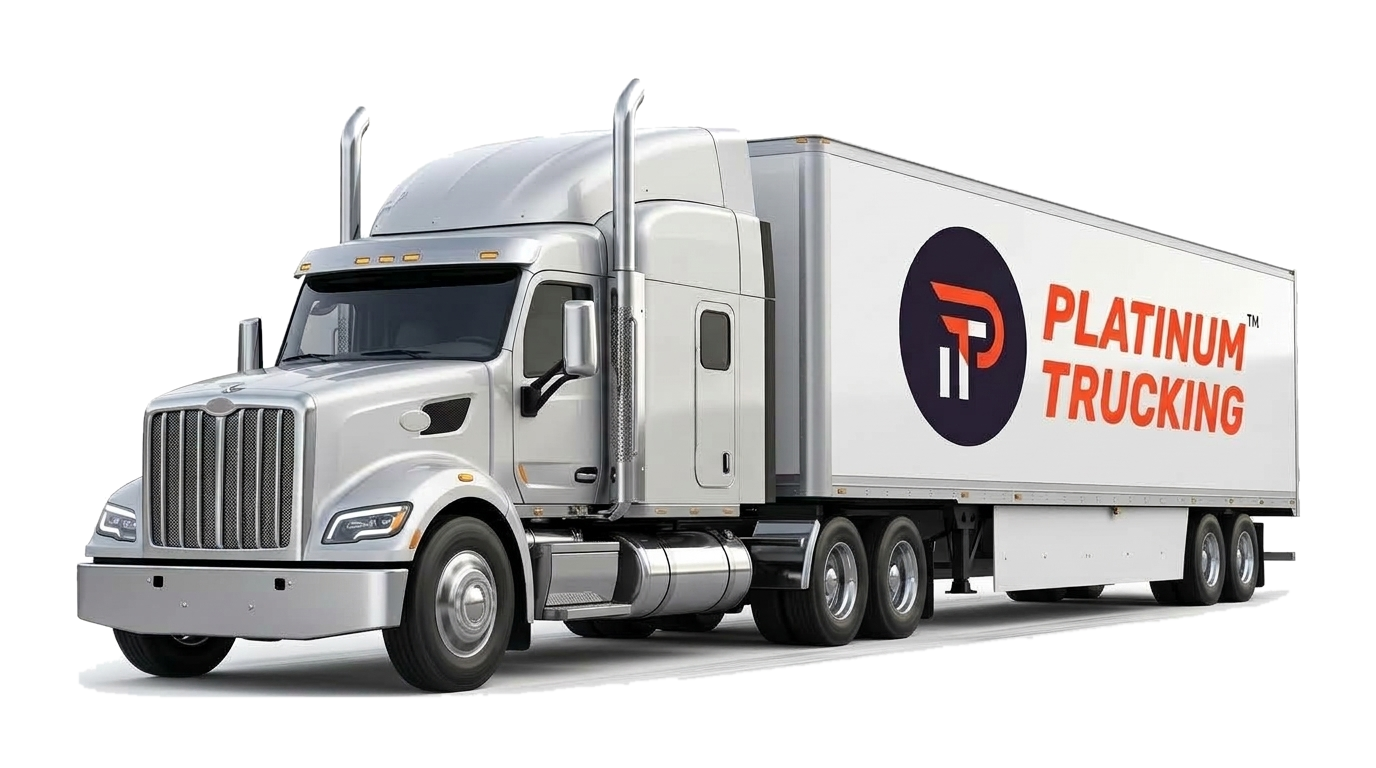
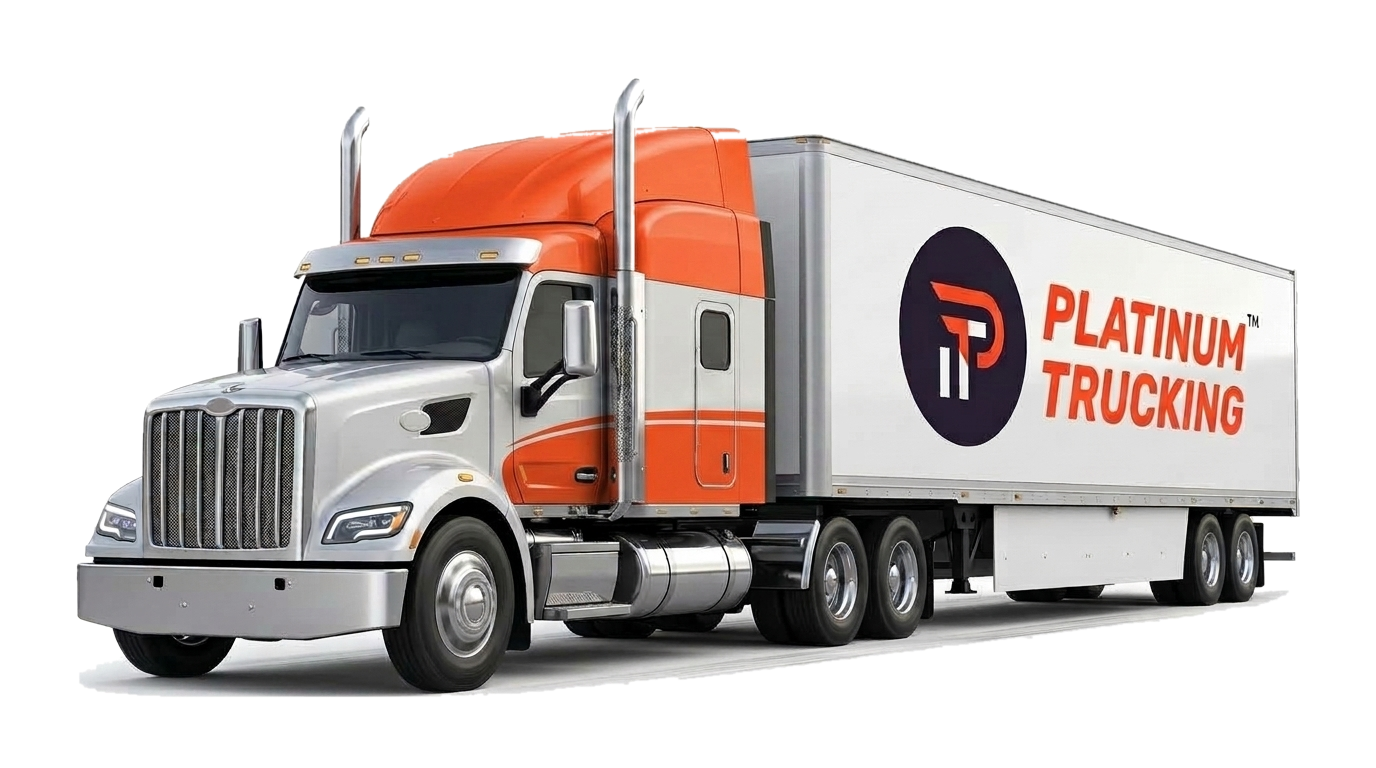
feat: smart theme orange brand paint job, exact wheel axis alignment, and premium 404 typography

diff --git a/src/App.tsx b/src/App.tsx
@@ -16,37 +16,38 @@ interface WheelConfig {
   hub_r: number;
 }
 
+// Sub-pixel measured wheel axle centers and 3D perspective dimensions
 const WHEELS: WheelConfig[] = [
   {
     id: 'front',
     name: 'Front Steer Wheel',
-    cx: 448,
-    cy: 590,
-    tilt: -3.5,
-    aspect: 0.62,
-    r_tire: 102,
-    r_rim_outer: 62,
-    r_rim_inner: 28,
-    r_holes: 45,
-    hole_w: 5.0,
-    hole_h: 8.0,
-    r_lugs: 26,
-    lug_r: 2.2,
-    hub_r: 18,
+    cx: 468,
+    cy: 595,
+    tilt: -4.0,
+    aspect: 0.618,
+    r_tire: 98,
+    r_rim_outer: 55,
+    r_rim_inner: 24,
+    r_holes: 40,
+    hole_w: 4.8,
+    hole_h: 7.5,
+    r_lugs: 23,
+    lug_r: 2.0,
+    hub_r: 16,
   },
   {
     id: 'tractor1',
     name: 'Tractor Drive Wheel 1',
-    cx: 838,
-    cy: 568,
+    cx: 828,
+    cy: 576,
     tilt: -1.5,
     aspect: 0.565,
     r_tire: 72,
-    r_rim_outer: 45,
+    r_rim_outer: 46,
     r_rim_inner: 20,
-    r_holes: 32,
+    r_holes: 33,
     hole_w: 3.6,
-    hole_h: 6.0,
+    hole_h: 5.8,
     r_lugs: 18,
     lug_r: 1.6,
     hub_r: 13,
@@ -54,16 +55,16 @@ const WHEELS: WheelConfig[] = [
   {
     id: 'tractor2',
     name: 'Tractor Drive Wheel 2',
-    cx: 899,
-    cy: 564,
+    cx: 889,
+    cy: 570,
     tilt: -1.5,
     aspect: 0.568,
     r_tire: 70,
-    r_rim_outer: 43,
+    r_rim_outer: 44,
     r_rim_inner: 19,
-    r_holes: 30,
+    r_holes: 31,
     hole_w: 3.4,
-    hole_h: 5.6,
+    hole_h: 5.5,
     r_lugs: 17,
     lug_r: 1.5,
     hub_r: 12,
@@ -71,12 +72,12 @@ const WHEELS: WheelConfig[] = [
   {
     id: 'trailer1',
     name: 'Trailer Tandem Wheel 1',
-    cx: 1203,
-    cy: 548,
+    cx: 1198,
+    cy: 552,
     tilt: -1.0,
     aspect: 0.529,
     r_tire: 56,
-    r_rim_outer: 33,
+    r_rim_outer: 34,
     r_rim_inner: 14,
     r_holes: 24,
     hole_w: 2.7,
@@ -88,12 +89,12 @@ const WHEELS: WheelConfig[] = [
   {
     id: 'trailer2',
     name: 'Trailer Tandem Wheel 2',
-    cx: 1240,
-    cy: 546,
+    cx: 1236,
+    cy: 550,
     tilt: -1.0,
     aspect: 0.515,
     r_tire: 54,
-    r_rim_outer: 32,
+    r_rim_outer: 33,
     r_rim_inner: 13,
     r_holes: 23,
     hole_w: 2.5,
@@ -115,44 +116,38 @@ export default function App() {
         </div>
       </header>
 
-      {/* CENTER STAGE: Perfectly Co-Aligned 404 Watermark, White Oval Backdrop, and Animated Truck */}
+      {/* CENTER STAGE: High-End 404 Typography Watermark, Lower Ground Platform, and Heroic Truck */}
       <div className="relative flex-1 w-full max-w-7xl mx-auto flex items-center justify-center pointer-events-none my-auto">
-        {/* 1. ATMOSPHERIC "404" WATERMARK - Centered directly behind the truck with top crown visibility */}
+        {/* 1. HIGH-END EXPERT DISPLAY "404" TYPOGRAPHY WATERMARK */}
         <div
-          className="absolute inset-0 flex items-center justify-center pointer-events-none overflow-hidden select-none"
+          className="absolute inset-0 flex items-center justify-center pointer-events-none select-none overflow-hidden"
           style={{
-            maskImage: 'linear-gradient(to bottom, black 25%, transparent 68%)',
-            WebkitMaskImage: 'linear-gradient(to bottom, black 25%, transparent 68%)',
+            maskImage: 'linear-gradient(to bottom, black 30%, transparent 92%)',
+            WebkitMaskImage: 'linear-gradient(to bottom, black 30%, transparent 92%)',
           }}
         >
           <div
-            className="text-white font-black leading-none tracking-tighter select-none whitespace-nowrap opacity-35 sm:opacity-50"
+            className="font-black leading-none tracking-[-0.05em] whitespace-nowrap select-none pointer-events-none text-white/25 drop-shadow-sm"
             style={{
-              fontSize: 'clamp(140px, 34vw, 540px)',
-              transform: 'scale(1.05, 1.2)',
+              fontSize: 'clamp(160px, 32vw, 560px)',
+              WebkitTextStroke: 'clamp(1.2px, 0.22vw, 2.5px) rgba(255, 255, 255, 0.45)',
+              transform: 'scaleY(1.08)',
             }}
           >
             404
           </div>
         </div>
 
-        {/* 2. LUMINOUS WHITE OVAL BACKDROP - Embraces the entire truck body with a soft radiant glow */}
-        <div
-          className="absolute rounded-[100%] bg-white pointer-events-none"
-          style={{
-            width: 'clamp(300px, 94vw, 840px)',
-            height: 'clamp(180px, 50vw, 400px)',
-            boxShadow: '0 0 50px 15px rgba(255, 255, 255, 0.45), 0 20px 40px rgba(0, 0, 0, 0.08)',
-          }}
-        />
-
-        {/* 3. HEROIC CLASS 8 SEMI-TRUCK ASSEMBLY WITH 3D PERSPECTIVE REVOLVING WHEELS */}
-        <div className="relative w-[96vw] max-w-[480px] sm:w-[84vw] sm:max-w-none md:w-[72vw] lg:w-[62vw] flex flex-col items-center justify-center z-10">
+        {/* 2. HEROIC CLASS 8 SEMI-TRUCK ASSEMBLY WITH SMART BRAND PAINT & REVOLVING WHEELS */}
+        <div className="relative w-[96vw] max-w-[480px] sm:w-[84vw] sm:max-w-none md:w-[74vw] lg:w-[65vw] flex flex-col items-center justify-center z-10">
           {/* Suspension vibration */}
           <div className="relative w-full animate-road-drive-bounce">
-            {/* Ground Contact Shadow */}
+            {/* Lower Ground Stage Oval below truck */}
+            <div className="absolute -bottom-3 sm:-bottom-5 left-[2%] right-[2%] h-[28px] sm:h-[42px] rounded-[100%] bg-white/60 blur-md pointer-events-none" />
+
+            {/* Ground Contact Shadow under tires */}
             <div
-              className="absolute -bottom-2 sm:-bottom-3 left-[4%] right-[4%] h-[18px] sm:h-[26px] bg-black/45 rounded-[100%] blur-md pointer-events-none animate-shadow-pulse"
+              className="absolute -bottom-1.5 sm:-bottom-2.5 left-[4%] right-[4%] h-[16px] sm:h-[22px] bg-black/45 rounded-[100%] blur-md pointer-events-none animate-shadow-pulse"
               style={{ transformOrigin: 'center' }}
             />
 
@@ -170,7 +165,7 @@ export default function App() {
               </div>
             </div>
 
-            {/* Pristine Cutout Photorealistic Truck */}
+            {/* Photorealistic Class 8 Truck with Smart Brand Paint Job */}
             <img
               src="/platinum_truck_photoreal.png"
               alt="Platinum Trucking Class 8 Heavy-Duty Semi Truck"
